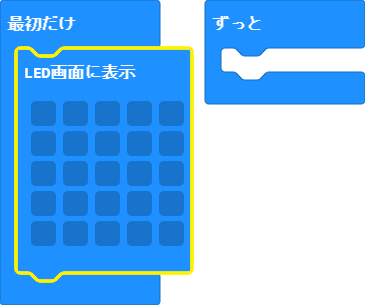
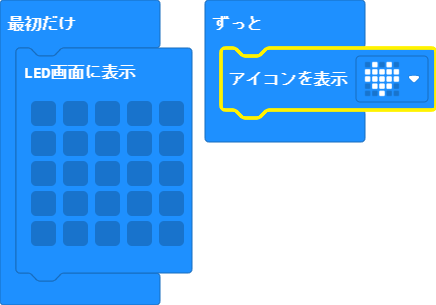
更新 main.blocks, main.ts

diff --git a/main.ts b/main.ts
@@ -6,5 +6,5 @@ basic.showLeds(`
     . . . . .
     `)
 basic.forever(function () {
-	
+    basic.showIcon(IconNames.Heart)
 })
